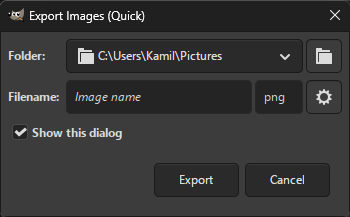
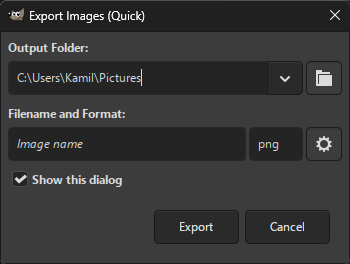
Release 1.2.2

diff --git a/_posts/2026-03-15-1.2.2-released.md b/_posts/2026-03-15-1.2.2-released.md
@@ -1,0 +1,31 @@
+---
+layout: posts
+title: "Batcher 1.2.2 Released"
+author: "Kamil Burda"
+category: news
+---
+
+<!-- end of summary -->
+
+General changes:
+* Updated Dutch translation (thanks to @DiGro).
+
+New features:
+* You can now type or paste an output folder (beside choosing a folder from a file dialog or the dropdown). This makes it possible to specify a folder that does not exist (which is automatically created during processing).
+
+Changes to actions and conditions:
+* Levels, Curves: For GIMP 3.2 and later, presets saved with a mode other than linear (non-linear, perceptual) are now allowed.
+* Brightness-Contrast, Levels, Curves: For GIMP 3.2 and later, these actions can now optionally be applied non-destructively. Blend mode and opacity can now also be adjusted.
+* `script-fu-unsharp-mask` is no longer available as a custom action as it opens a new image in GIMP (even when running the procedure non-interactively) and is thus not usable within Batcher. The `gegl:unsharp-mask` filter can be used as a substitute (#138).
+
+User interface changes:
+* Batch Convert, Export Images, Export Layers: The default focus when opening the main dialog is now on the output folder entry.
+* Moved labels for export settings to separate rows. This makes more room for the folder and filename entries (and particularly when translated labels are longer than their English counterparts). The labels have also been made clearer thanks to the additional space available.
+* Slightly increased width for the file format entry to account for file extensions with more characters.
+* If an action fails during the preview, an inline message is displayed instead of a modal dialog. This can vastly reduce frustration when a user adds and edits an action until the action no longer results in a failure (e.g. replacing default values such as unspecified files or adding coordinates for `gimp-pencil`). Additionally, this prevents message spam when an action fails when starting Batcher, which could result in Batcher getting unresponsive on some platforms (#133).
+
+Bug fixes:
+* Fixed several icons not changing when selecting a different icon theme in GIMP.
+* Fixed a potential bug preventing Batcher from running on certain platforms for GIMP 3.2-RC3 or later.
+
+[Download at GitHub](https://github.com/kamilburda/batcher/releases/tag/1.2.2)

diff --git a/_pages/Customization/Actions.md b/_pages/Customization/Actions.md
@@ -265,23 +265,25 @@ This is useful if the image contains multiple layers and you want to apply filte
 
 Adjusts brightness and contrast.
 
-For GIMP 3.2 and later, you can choose between two different filters responsible for adjusting brightness and contrast: `GEGL` (uses the `gegl:brightness-contrast` filter) and `GIMP` (uses the `gimp:brightness-contrast` filter).
+For GIMP 3.2 and later, additional options are provided:
+* Filter responsible for adjusting brightness and contrast: `GEGL` (uses the `gegl:brightness-contrast` filter) and `GIMP` (uses the `gimp:brightness-contrast` filter).
+* Whether to apply brightness and contrast non-destructively, blend mode and opacity.
 
 #### Levels
 
 Applies levels from a saved preset file. Both GIMP and Photoshop (.alv) file formats are supported.
 
-You can save a GIMP preset file by choosing `Export Current Settings to File` in the Levels tool.
+For GIMP 3.2 and later, you may apply levels non-destructively and adjust blend mode and opacity.
 
-At the moment, Batcher only supports preset files saved in the linear mode. If you saved your preset in a different mode (e.g. non-linear, perceptual), the action will fail with a warning dialog.
+You can save a GIMP preset file by choosing `Export Current Settings to File` in the Levels tool.
 
 #### Curves
 
 Applies curves from a saved preset file. Both GIMP and Photoshop (.acv) file formats are supported.
 
-You can save a GIMP preset file by choosing `Export Current Settings to File` in the Curves tool.
+For GIMP 3.2 and later, you may apply curves non-destructively and adjust blend mode and opacity.
 
-At the moment, Batcher only supports preset files saved in the linear mode. If you saved your preset in a different mode (e.g. non-linear, perceptual), the action will fail with a warning dialog.
+You can save a GIMP preset file by choosing `Export Current Settings to File` in the Curves tool.
 
 #### White Balance
 

diff --git a/_pages/Known Issues.md b/_pages/Known Issues.md
@@ -8,15 +8,7 @@ If the *How to adjust file format options* export option is set to `Interactivel
 In that case, the file format dialog may be displayed behind GIMP.
 If so, select the dialog in the taskbar to bring it up.
 
-For the `Levels` and `Curves` actions, Batcher currently supports applying preset files saved in the linear mode only. If you saved your preset in a different mode (e.g. non-linear or perceptual), the action will fail with a warning dialog.
-
 For Batch Convert, import options for unrecognized file formats cannot be adjusted and default values will be used.
-
-If some actions result in errors, notably layer effects, the error message provided by Batcher is rather generic or there is none. A more detailed error message, if any, can be displayed in GIMP via `Windows → Dockable Dialogs → Error Console`. In previous Batcher versions, these messages were displayed as separate popups - however, these popups were often displayed repeatedly and kept obscuring the Batcher dialog.
 
 Images created by custom actions (e.g. via `plug-in-decompose`) are currently not usable in Batcher.
 [This will be resolved in a future version](https://github.com/kamilburda/batcher/issues/56).
-
-If you run GIMP using the official AppImage, `None` will be displayed as an option for a `Current Image`/`Current Layer` parameter in an action, even if the parameter does not allow omitting an image/layer. This will be fixed in a future version of GIMP.
-
-The `C source` and `HTML` file formats require displaying a file format dialog for each image to be exported. This will be fixed in a future version of GIMP.

diff --git a/dev/index.md b/dev/index.md
@@ -6,9 +6,9 @@ custom_subtitle: "Batch image processing plug-in for GIMP"
 header:
   overlay_image: /assets/images/splash.jpg
   actions:
-    - label: "Download 1.2.1 (February 08, 2026)"
+    - label: "Download 1.2.2 (March 15, 2026)"
       image: <svg class="page__header-icon" xmlns="http://www.w3.org/2000/svg" viewBox="0 0 512 512"><!--!Font Awesome Free 6.7.2 by @fontawesome - https://fontawesome.com License - https://fontawesome.com/license/free Copyright 2025 Fonticons, Inc.--><path d="M288 32c0-17.7-14.3-32-32-32s-32 14.3-32 32l0 242.7-73.4-73.4c-12.5-12.5-32.8-12.5-45.3 0s-12.5 32.8 0 45.3l128 128c12.5 12.5 32.8 12.5 45.3 0l128-128c12.5-12.5 12.5-32.8 0-45.3s-32.8-12.5-45.3 0L288 274.7 288 32zM64 352c-35.3 0-64 28.7-64 64l0 32c0 35.3 28.7 64 64 64l384 0c35.3 0 64-28.7 64-64l0-32c0-35.3-28.7-64-64-64l-101.5 0-45.3 45.3c-25 25-65.5 25-90.5 0L165.5 352 64 352zm368 56a24 24 0 1 1 0 48 24 24 0 1 1 0-48z"/></svg>
-      url: "https://github.com/kamilburda/batcher/releases/download/1.2.1/batcher-1.2.1.zip"
+      url: "https://github.com/kamilburda/batcher/releases/download/1.2.2/batcher-1.2.2.zip"
       remote_only: true
     - label: "Get started"
       url: "/docs/installation/"

diff --git a/index.md b/index.md
@@ -6,9 +6,9 @@ custom_subtitle: "Batch image processing plug-in for GIMP"
 header:
   overlay_image: /assets/images/splash.jpg
   actions:
-    - label: "Download 1.2.1 (February 08, 2026)"
+    - label: "Download 1.2.2 (March 15, 2026)"
       image: <svg class="page__header-icon" xmlns="http://www.w3.org/2000/svg" viewBox="0 0 512 512"><!--!Font Awesome Free 6.7.2 by @fontawesome - https://fontawesome.com License - https://fontawesome.com/license/free Copyright 2025 Fonticons, Inc.--><path d="M288 32c0-17.7-14.3-32-32-32s-32 14.3-32 32l0 242.7-73.4-73.4c-12.5-12.5-32.8-12.5-45.3 0s-12.5 32.8 0 45.3l128 128c12.5 12.5 32.8 12.5 45.3 0l128-128c12.5-12.5 12.5-32.8 0-45.3s-32.8-12.5-45.3 0L288 274.7 288 32zM64 352c-35.3 0-64 28.7-64 64l0 32c0 35.3 28.7 64 64 64l384 0c35.3 0 64-28.7 64-64l0-32c0-35.3-28.7-64-64-64l-101.5 0-45.3 45.3c-25 25-65.5 25-90.5 0L165.5 352 64 352zm368 56a24 24 0 1 1 0 48 24 24 0 1 1 0-48z"/></svg>
-      url: "https://github.com/kamilburda/batcher/releases/download/1.2.1/batcher-1.2.1.zip"
+      url: "https://github.com/kamilburda/batcher/releases/download/1.2.2/batcher-1.2.2.zip"
       remote_only: true
     - label: "Get started"
       url: "/docs/installation/"

diff --git a/_pages/Installation.md b/_pages/Installation.md
@@ -12,7 +12,9 @@ Batcher requires [GIMP 3.0.0](https://www.gimp.org/downloads/) or later.
 
 Batcher can currently be installed only manually by copying files from a ZIP archive.
 
-**[Download latest release](https://github.com/kamilburda/batcher/releases/tag/1.2.1) (1.2.1, February 08, 2026)**
+**[Download latest release](https://github.com/kamilburda/batcher/releases/tag/1.2.2) (1.2.2, March 15, 2026)**
+
+If you do not see the downloaded archive, check if your browser blocked the download.
 
 
 ## Windows

diff --git a/dev/_pages/Installation.md b/dev/_pages/Installation.md
@@ -12,7 +12,7 @@ Batcher requires [GIMP 3.0.0](https://www.gimp.org/downloads/) or later.
 
 Batcher can currently be installed only manually by copying files from a ZIP archive.
 
-**[Download latest release](https://github.com/kamilburda/batcher/releases/tag/1.2.1) (1.2.1, February 08, 2026)**
+**[Download latest release](https://github.com/kamilburda/batcher/releases/tag/1.2.2) (1.2.2, March 15, 2026)**
 
 If you do not see the downloaded archive, check if your browser blocked the download.
 
